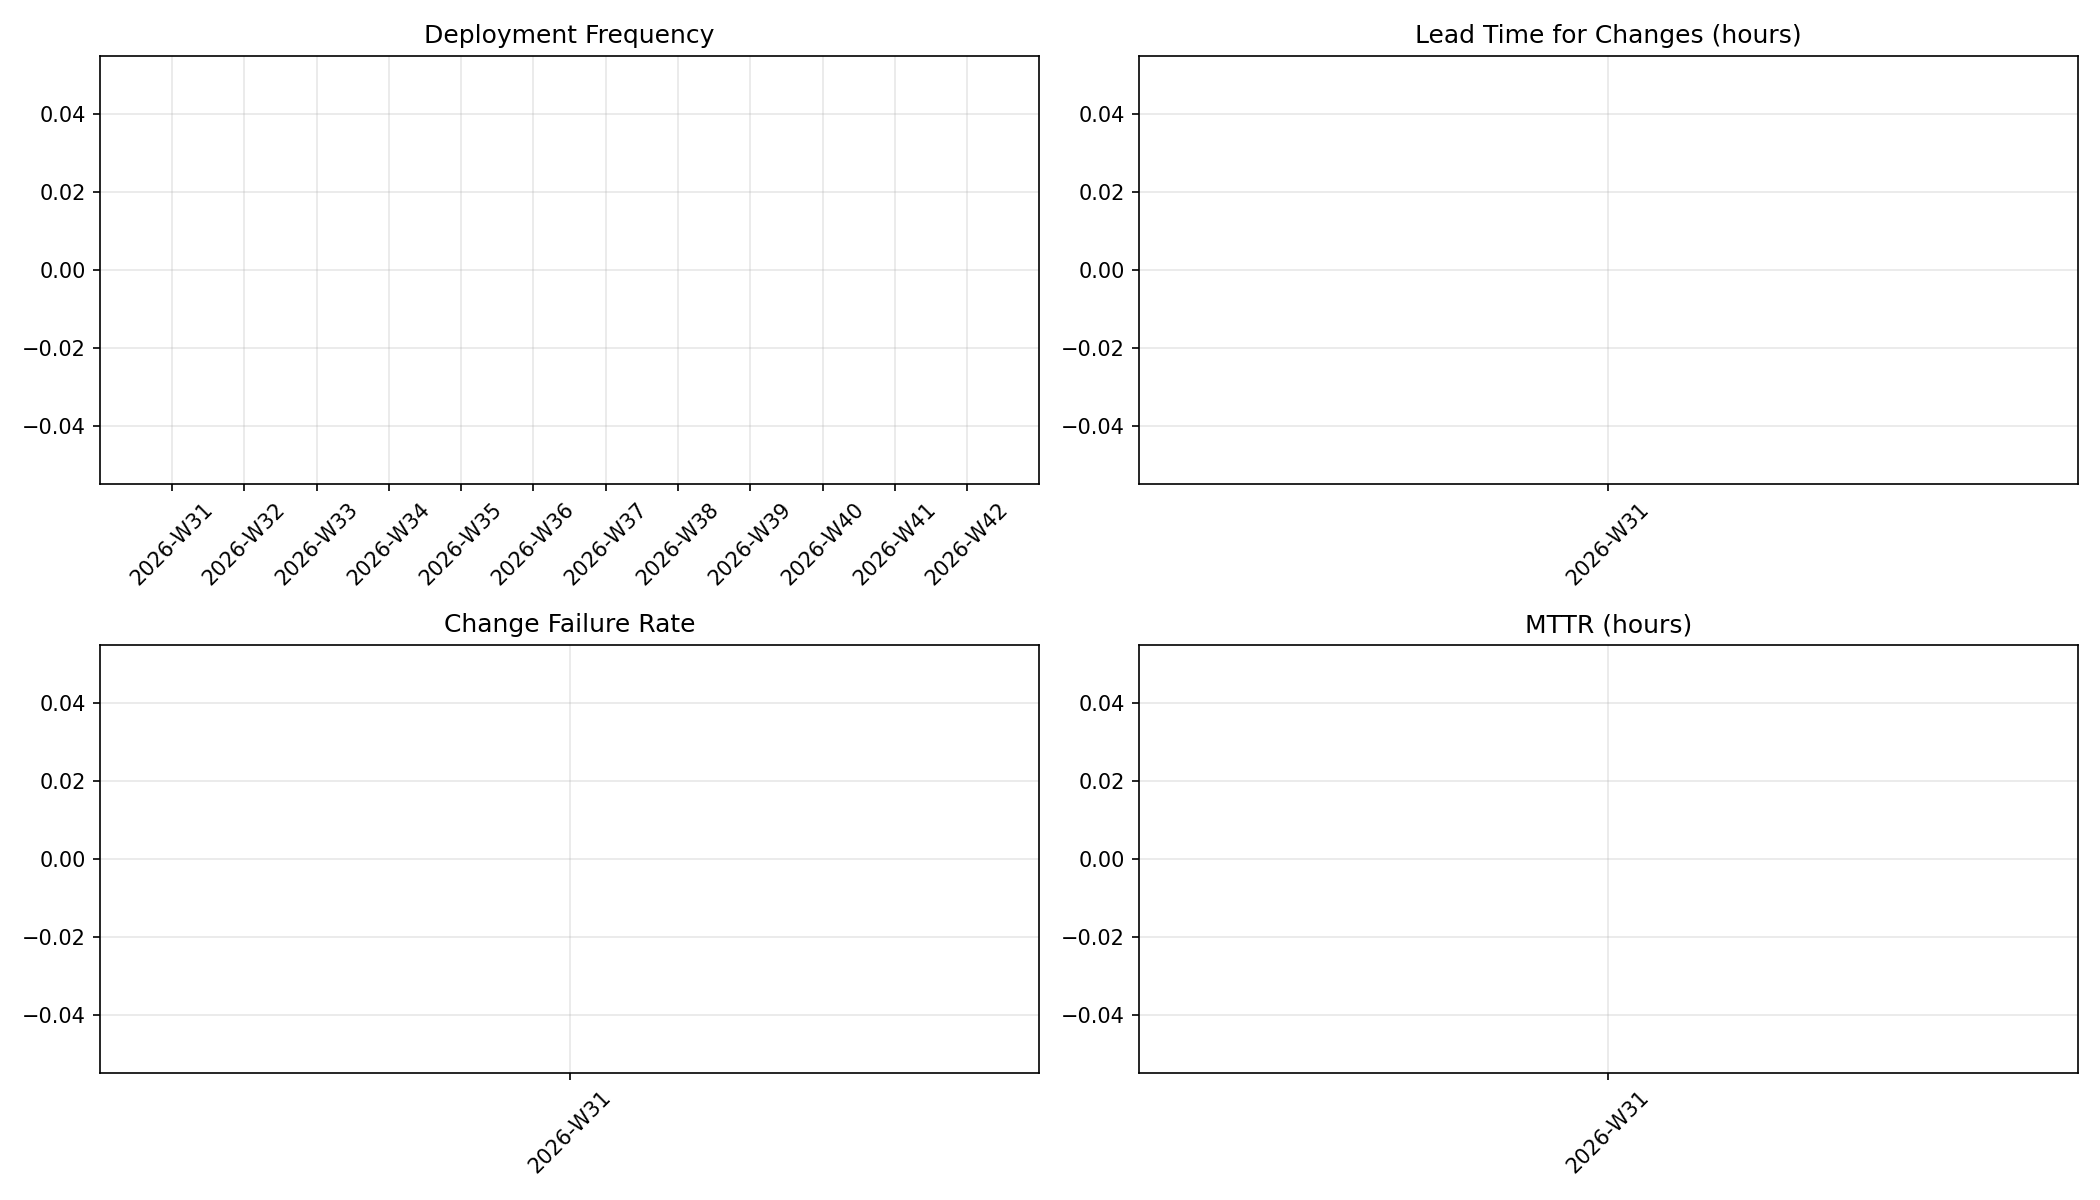
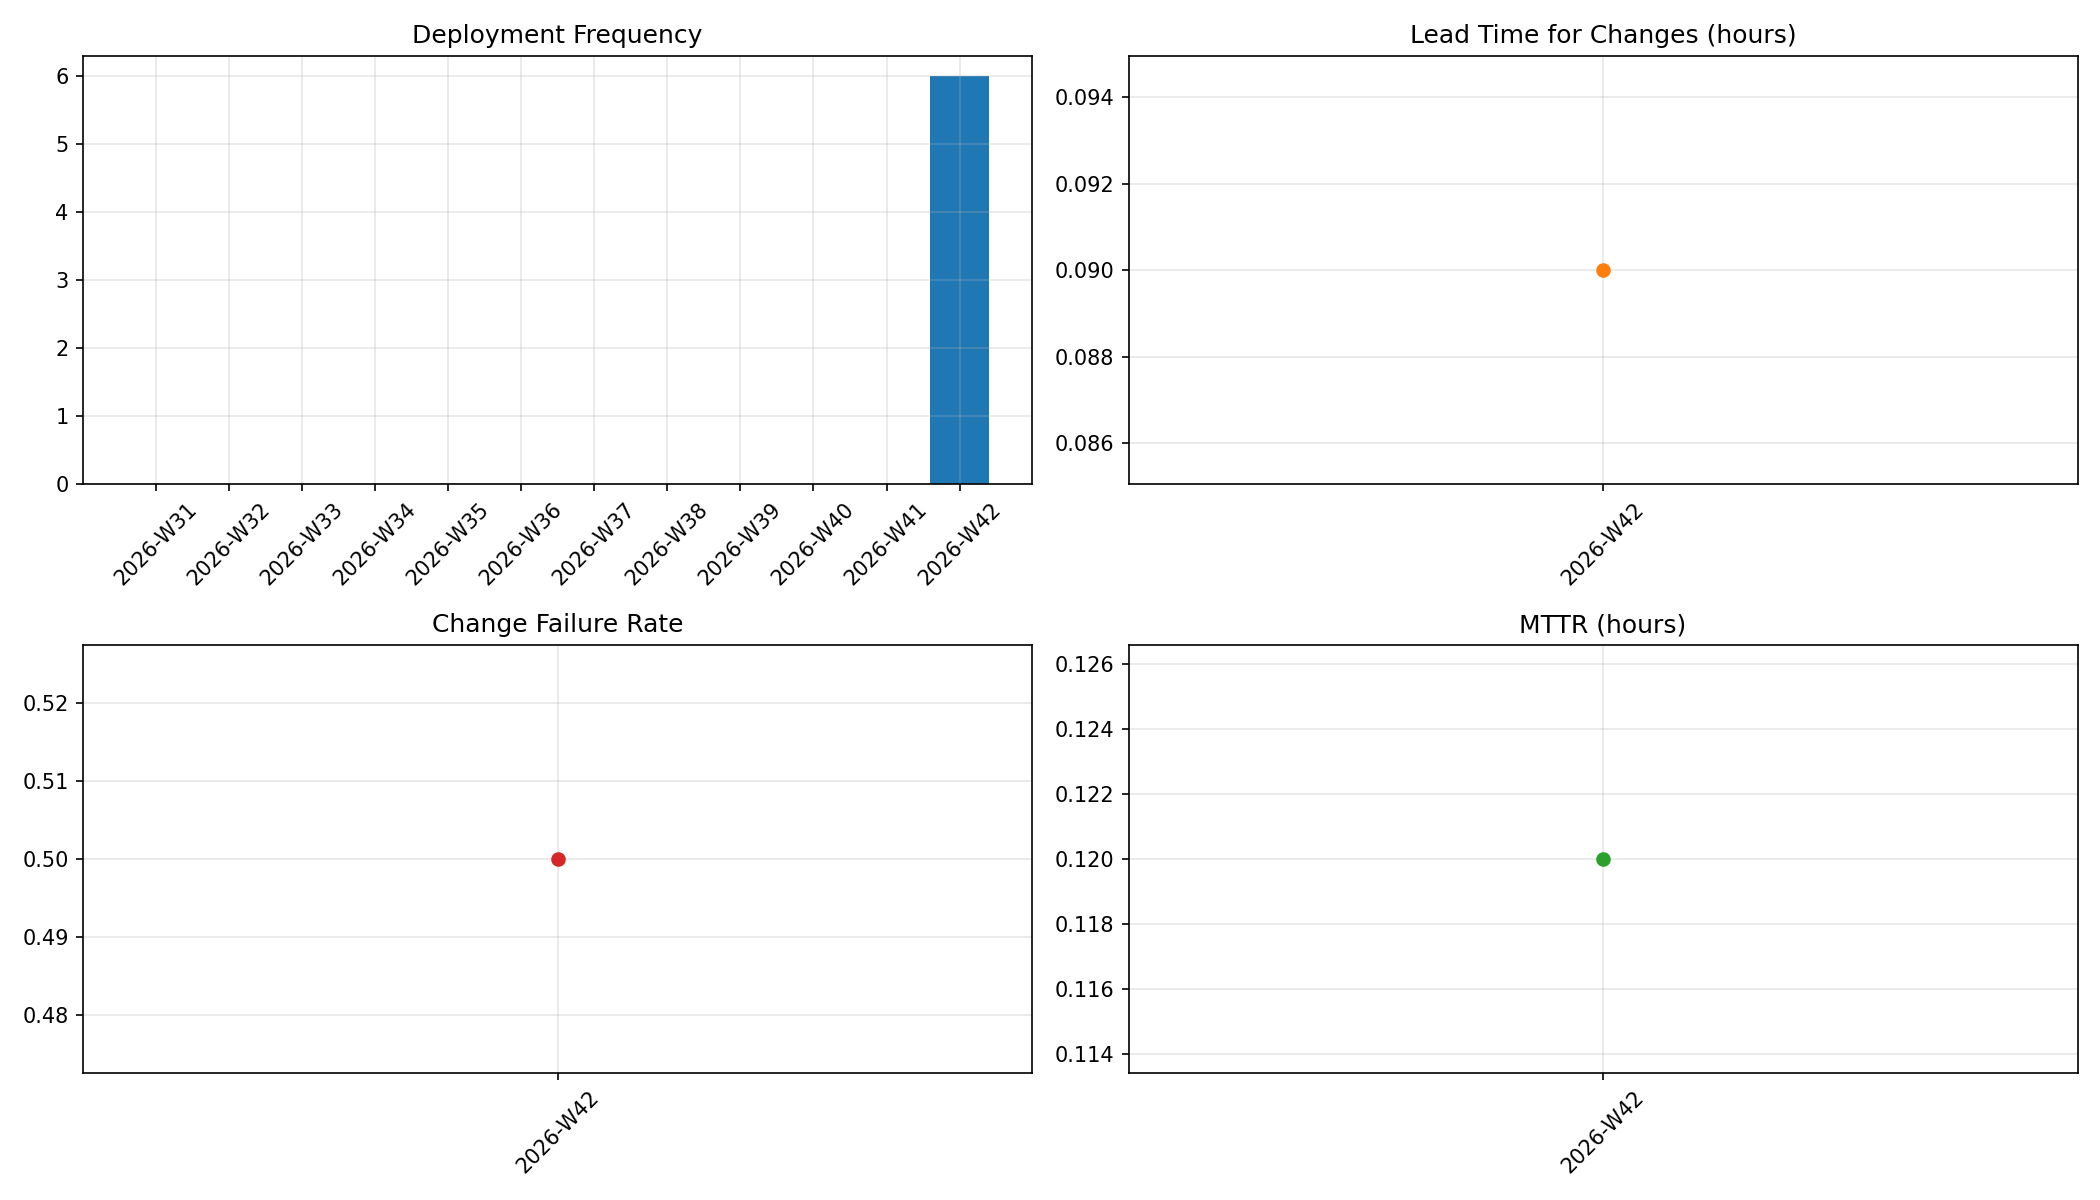
chore: update weekly dora metrics

diff --git a/reports/weekly-2026-W42.md b/reports/weekly-2026-W42.md
@@ -1,13 +1,13 @@
 # DORA Weekly Report (2026-W42)
 
 ## This Week
-- Deployment Frequency: 0 (Low)
-- Lead Time for Changes: N/A (N/A)
-- Change Failure Rate: N/A (N/A)
-- MTTR: N/A (N/A)
+- Deployment Frequency: 6 (High)
+- Lead Time for Changes: 0.09 hours (Elite)
+- Change Failure Rate: 0.50 (Low)
+- MTTR: 0.12 hours (Elite)
 
 ## Week-over-Week Delta
-- Deployment Frequency: +0
+- Deployment Frequency: +6
 - Lead Time for Changes: N/A
 - Change Failure Rate: N/A
 - MTTR: N/A
